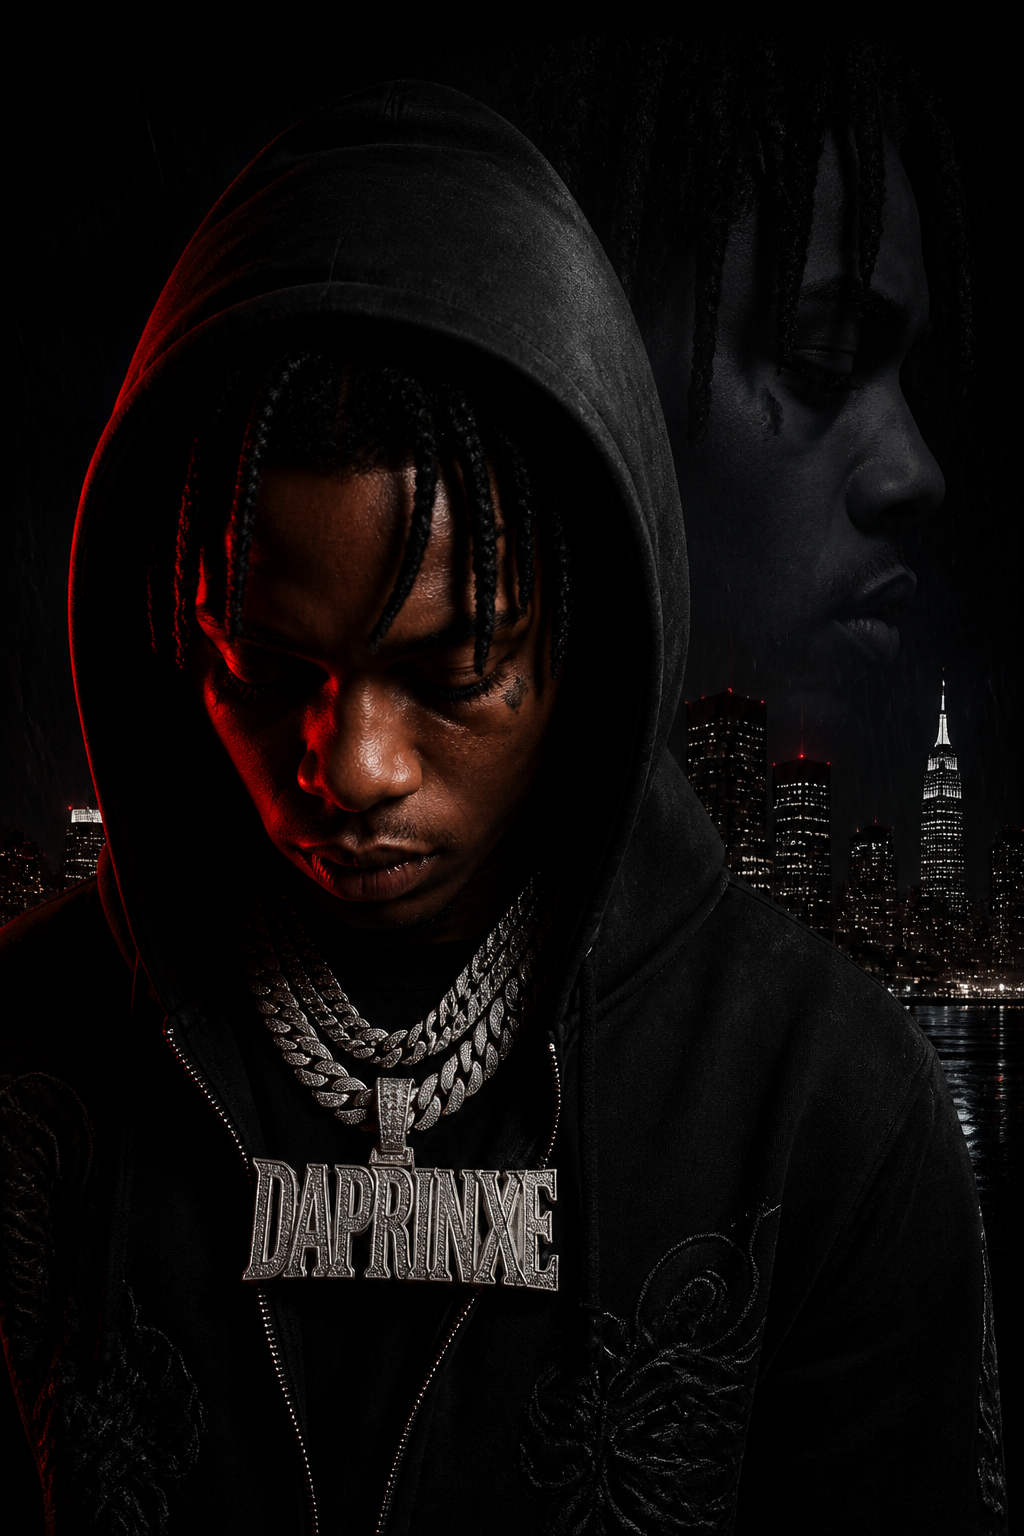
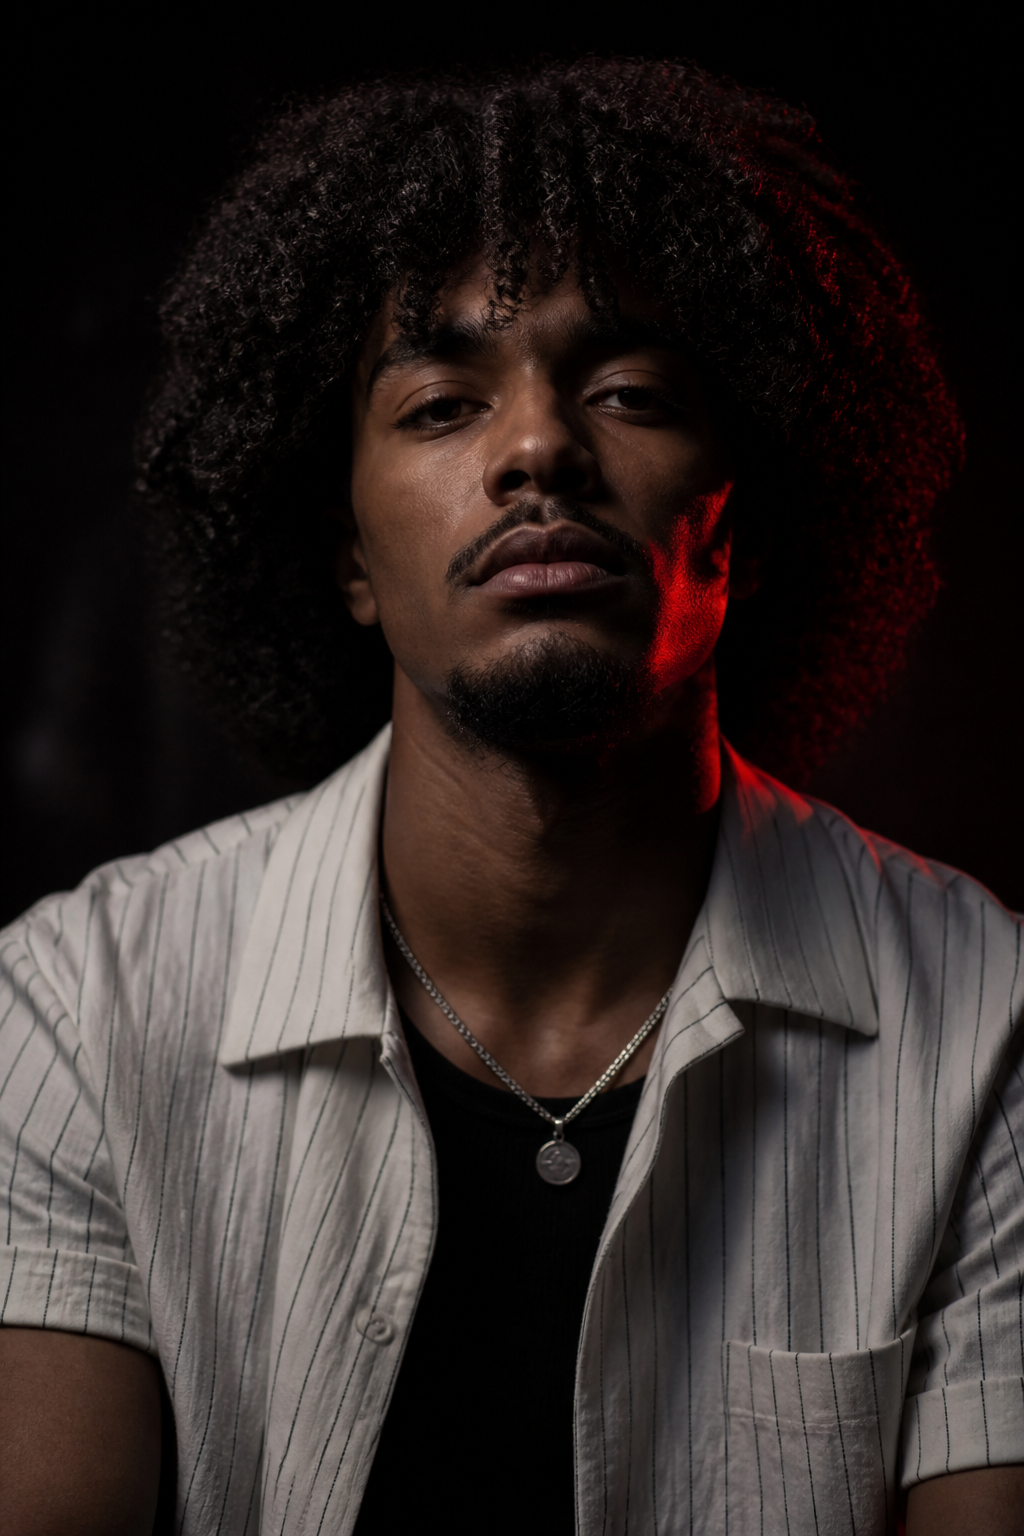
Use the Crazy cover face on the homepage hero.

diff --git a/app/page.tsx b/app/page.tsx
@@ -21,17 +21,29 @@ export default function HomePage() {
           priority
           className="object-cover opacity-40"
         />
-        <div className="absolute inset-0 bg-gradient-to-r from-black via-black/80 to-black/30" />
+        <div className="absolute inset-0 bg-gradient-to-r from-black via-black/85 to-black/40" />
+        <div className="absolute inset-x-0 top-16 h-72 opacity-70 md:hidden">
+          <Image
+            src="/images/hero-artist.png"
+            alt=""
+            fill
+            priority
+            className="object-cover object-[center_20%]"
+          />
+          <div className="absolute inset-0 bg-gradient-to-b from-black/30 via-transparent to-black" />
+          <div className="absolute inset-0 bg-brand/10 mix-blend-multiply" />
+        </div>
         <div className="absolute inset-y-0 right-0 hidden w-[52%] md:block">
           <Image
             src="/images/hero-artist.png"
             alt="DAPRINXE"
             fill
             priority
-            className="object-cover object-[center_15%] distress"
+            className="object-cover object-[center_18%]"
           />
-          <div className="absolute inset-0 bg-gradient-to-l from-transparent via-transparent to-black" />
+          <div className="absolute inset-0 bg-gradient-to-l from-transparent via-black/20 to-black" />
           <div className="absolute inset-x-0 bottom-0 h-40 bg-gradient-to-t from-black to-transparent" />
+          <div className="absolute inset-0 bg-brand/10 mix-blend-multiply" />
         </div>
 
         <div className="relative mx-auto grid min-h-[92vh] max-w-[1400px] items-center gap-10 px-4 py-16 sm:px-6 lg:grid-cols-[1fr_auto]">
